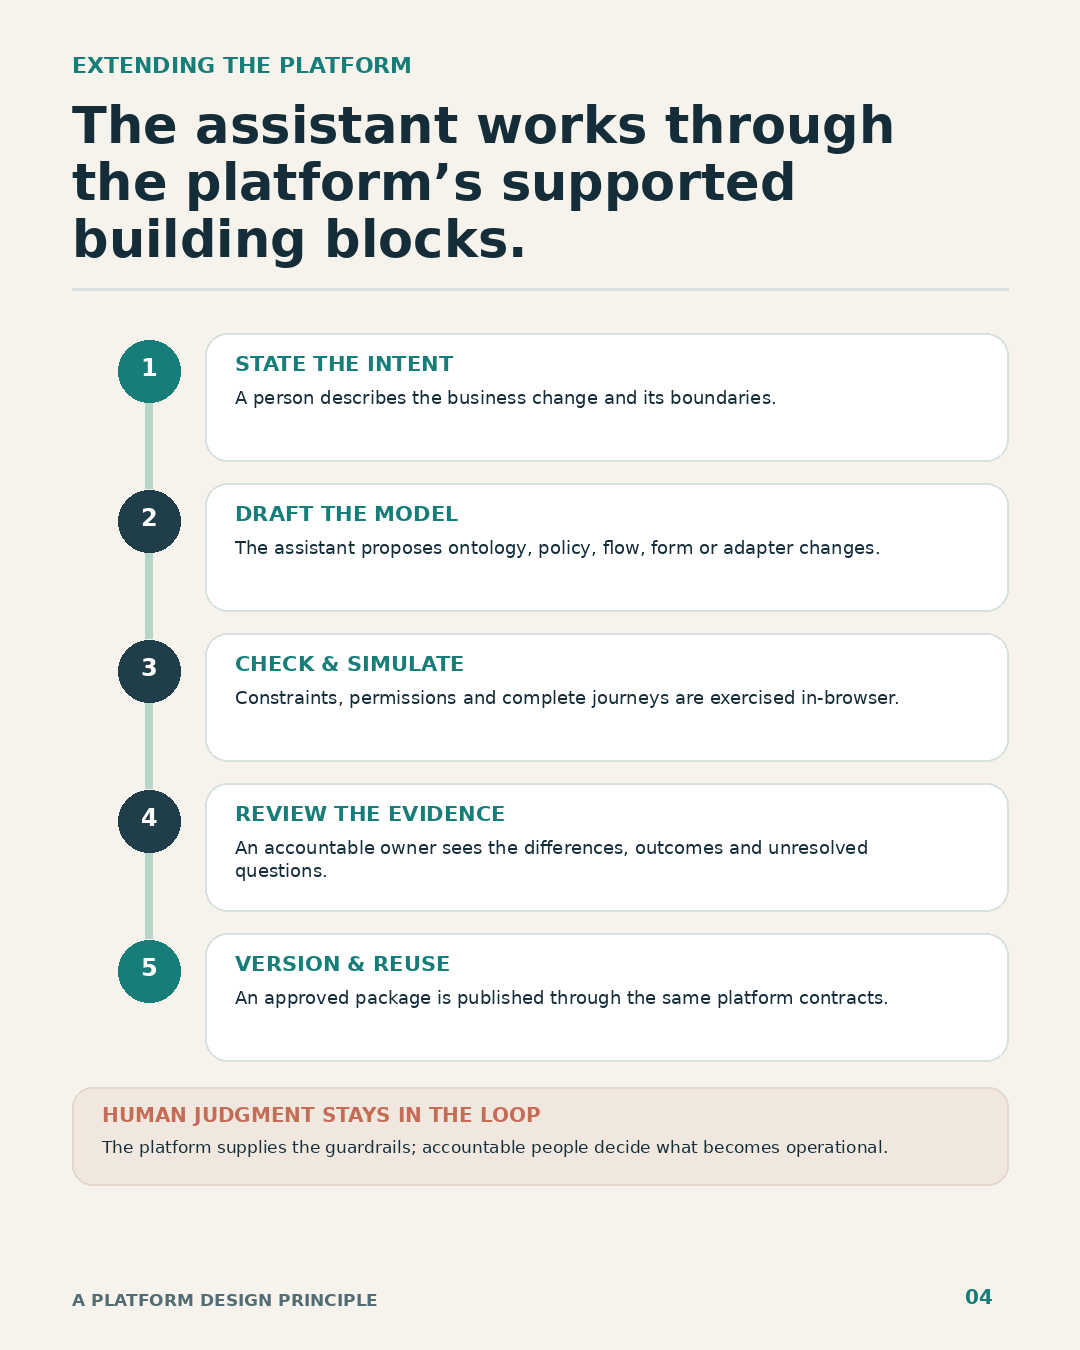
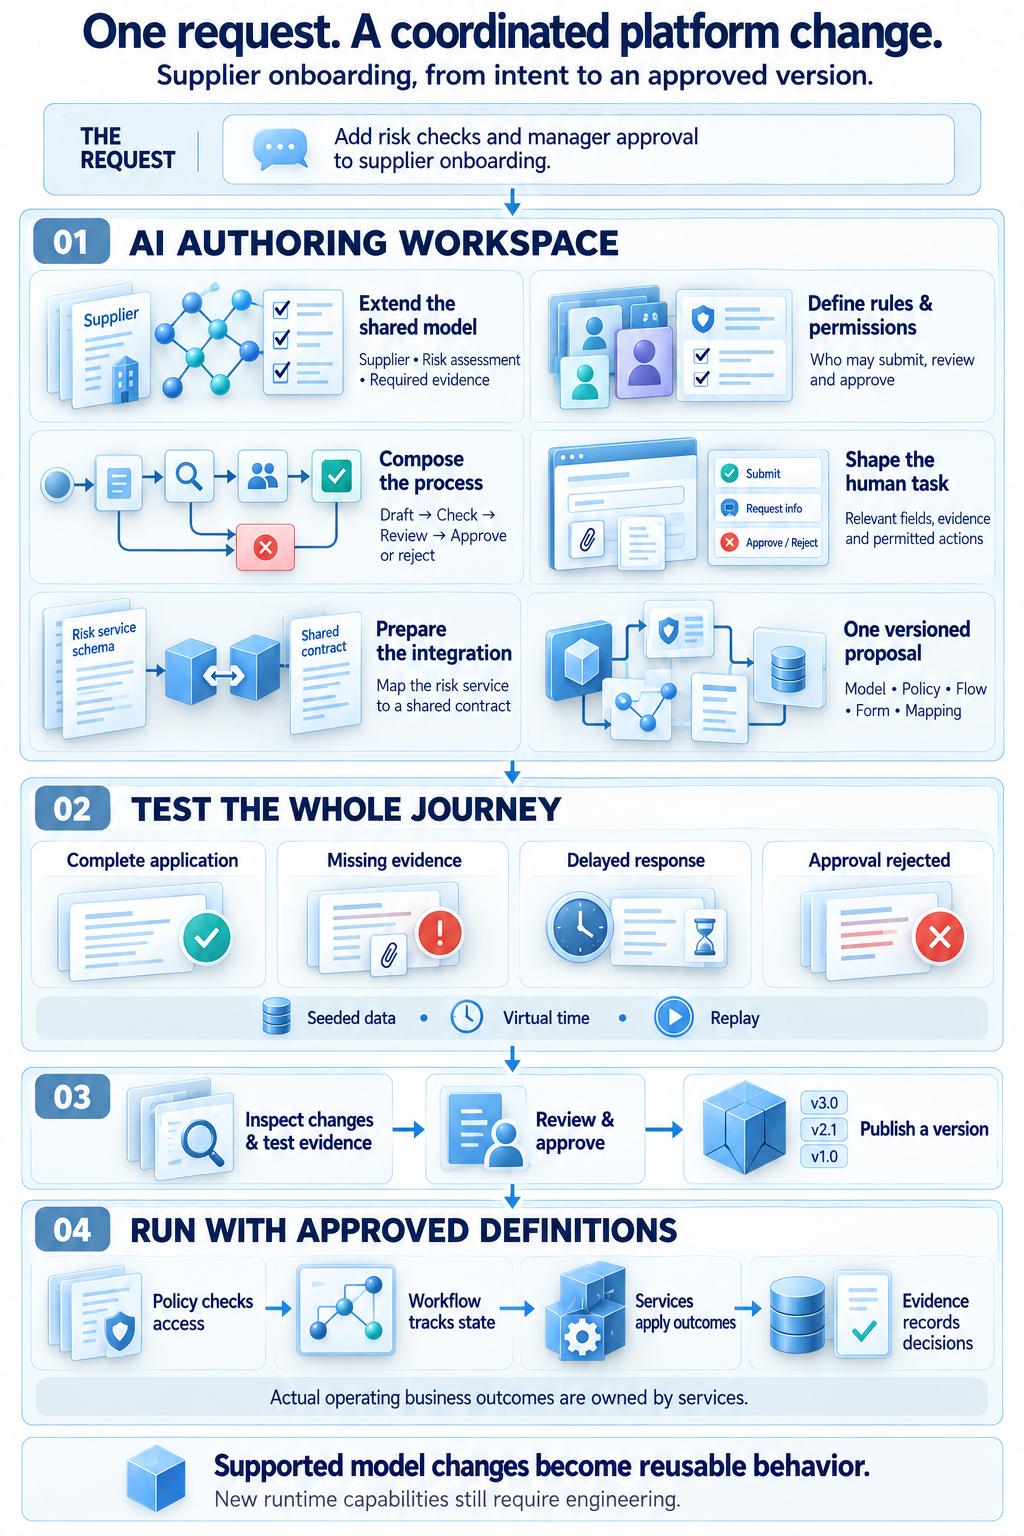
Refresh platform insight with light business infographics (#20)
Refresh platform vision article with light business infographics

Replace all four article illustrations with the approved white, muted-blue visual style. Make the AI authoring workspace explicit above the runtime, contrast fragmented changes with shared models, explain browser-first proving, and show one supplier onboarding change across the platform.

Clarify build versus extension modes, shared meaning across teams, independent adapter modes, and versioned publication. Preserve public image URLs and LinkedIn Markdown references. Document the artwork briefs and remove the obsolete Pillow renderer that would overwrite the approved assets.

Validation: published article metadata and image checks passed; website and console production builds passed; built article routes and assets verified; git diff --check passed. Changes remain under content/blog for the article-only GitHub Actions path. Illustrations are conceptual and AI-generated, not executable topology diagrams.

diff --git a/content/blog/articles/the-platform-as-a-harness.md b/content/blog/articles/the-platform-as-a-harness.md
@@ -10,13 +10,15 @@ When people discuss AI and software, the question is often how quickly an assist
 
 The answer depends on where the assistant works. If every agent creates its own schemas, rules, integrations and tests, local speed can become system-wide complexity. Inside a shared platform, AI works against common business meaning, policies, workflows, forms, adapters, simulation and evidence—the same contracts that govern the running system.
 
+This is a vision of an integrated platform: a place where people and AI can design, test and publish supported changes, as well as operate them. Its value comes from the foundation those activities share.
+
 ![Two approaches to AI-assisted software: isolated project outputs versus a shared platform harness with draft, validation, simulation, review and publication.](../assets/the-platform-as-a-harness/shared-harness.png)
 
 ## From generated code to a maintainable change
 
 Code generation can produce a useful first version. But a business capability also depends on the meaning of its information, the decisions it may make, ownership of each action, external dependencies and evidence that the result works.
 
-Outside a shared harness, assumptions are recreated project by project. Agents may use different representations, duplicate policies or tests that prove only one implementation. The work can look complete while connections between teams and systems remain unfinished.
+Without shared contracts, assumptions can be recreated project by project. Agents may use different representations, duplicate policies or produce tests that prove only one implementation. The work can look complete while connections between teams and systems remain unfinished. This is a coordination problem, not an inevitable property of coding agents: good engineering practices can address it, and agents remain useful for prototypes and new platform capabilities.
 
 Inside a platform, an assistant can draft a change against shared building blocks. Checks validate its relationships and constraints, a virtual runtime exercises it, and an accountable owner reviews the differences before publication. Generated code may still be part of the result, within a system with known responsibilities.
 
@@ -28,7 +30,17 @@ Human tasks fit here too. A task-specific form can use the workflow contract and
 
 Together, shared meaning helps workflows ask for the right information, policy limits who can submit it, domain services validate changes, and the runtime records outcomes. Sharing a model does not mean every layer owns every concern.
 
-![A portrait map of platform responsibilities from people and experience through workflow, policy, services, ontology, adapters, storage and evidence.](../assets/the-platform-as-a-harness/platform-layers.png)
+The benefit extends across teams. Product owners, engineers, operations and assurance can refer to the same concepts, responsibilities and evidence instead of rediscovering them in separate specifications. Application behavior and analytics can use that common meaning while keeping their own service and storage responsibilities. Versioned model packages, loaded through a replaceable provider, keep definitions consistent without mixing them with business records or workflow progress.
+
+![The AI authoring and reasoning layer reads shared context, plans and tests model changes, then publishes approved versions into a runtime of definitions, workflows, forms, services, adapters, data and browser simulation.](../assets/the-platform-as-a-harness/platform-layers.png)
+
+## Give AI an authoring workspace
+
+The AI needs somewhere to work out a change. That is the role of the authoring layer: it gathers relevant models, standards and documentation; maintains a proposed change; coordinates platform tools; and collects validation and simulation results. An AI model reached through an API helps interpret the request and prepare the proposal. The platform supplies the permitted tools, shared context and checks.
+
+This workspace keeps drafts separate from approved runtime definitions. It can propose an ontology extension, adjust constraints, assemble a workflow, design its task forms and prepare an integration mapping as one related change. People see the differences, affected processes and test evidence before publication. The runtime then loads the approved package; a conversation does not silently rewrite a running process.
+
+Versioning also matters after publication. Existing cases can remain on their original definitions until an explicit migration is approved. If a change must be withdrawn, reverting a model package does not automatically undo business actions that have already happened; those need their own recovery process.
 
 ## Prove the journey before the live connections
 
@@ -36,9 +48,11 @@ A particularly useful property is the ability to run a complete virtual environm
 
 A team can reproduce a late message, missing field, retry or approval delay, then replay the scenario after a change. Product, operations and engineering can inspect the same behavior together in the browser.
 
-Virtual testing does not replace real network, performance, security or endpoint checks. It gives them an already exercised journey and contract. Shared adapter boundaries let a connection move deliberately through virtual, observe, hybrid and live modes.
+That shortens the engineering feedback loop: change a definition, run the journey, inspect the evidence, correct it and replay. A fixed seed and virtual clock make the conditions repeatable. Problems can surface while a process is still easy to reshape, before infrastructure provisioning or a partner integration becomes a prerequisite for meaningful testing.
 
-![A complete virtual browser environment exercises the journey before moving through virtual, observe and hybrid operation toward live services.](../assets/the-platform-as-a-harness/browser-proving-ground.png)
+Virtual testing does not replace real network, performance, security or endpoint checks. It gives them an already exercised journey and contract. Virtual, observe, hybrid and live are selectable modes at individual boundaries, not a mandatory rollout sequence. A real input can feed simulated downstream services and stores; another integration can remain entirely virtual. Observe mode compares live input without authorizing operational writes.
+
+![A complete virtual browser environment supports rapid change, run, inspect and replay cycles; AI helps map endpoint documentation to shared contracts, with virtual, observe, hybrid and live modes selected independently per boundary.](../assets/the-platform-as-a-harness/browser-proving-ground.png)
 
 ## Let AI help bridge standards to real endpoints
 
@@ -48,15 +62,21 @@ The mapping remains a candidate: real endpoints can differ in fields, timing, in
 
 ## Extend the platform through its supported building blocks
 
-The same principle applies when the platform itself needs a new capability. A person describes intent; the assistant proposes changes to ontology, policies, workflows, forms or adapters that the platform supports. Validation catches structural or permission problems, and browser simulation tests repeatable journeys. Review shows the differences and unresolved questions before an approved, versioned package is published.
+There are two complementary modes of change. In build mode, engineers use code, repository review and tests to create reusable platform capabilities. In extension mode, people and AI use the platform's authoring tools to adapt whatever its runtime can represent, validate, publish and execute as a supported model.
 
-![A human-led AI extension cycle: state intent, draft models, check and simulate, review evidence, then version and reuse.](../assets/the-platform-as-a-harness/ai-extension-loop.png)
+That includes the ontology itself: new concepts, fields and relationships can be proposed alongside constraints, policies, workflow definitions, forms and integration mappings. The boundary is runtime support, not a blanket rule that ontology changes require code. A new protocol implementation or execution mechanism that the platform cannot yet express still belongs in build mode.
+
+A person describes intent; the assistant proposes the related model changes. Validation catches structural or permission problems, and browser simulation tests repeatable journeys. Review shows the differences and unresolved questions before an approved, versioned package is published.
+
+![One supplier onboarding request becomes a coordinated model, policy, workflow, form and integration proposal, tested in the browser and published as an approved runtime version.](../assets/the-platform-as-a-harness/ai-extension-loop.png)
 
 This is how a platform can become adaptable from within its own operating environment. AI assistance is useful not only for the initial build, but also for adding or changing the model-driven artifacts that the runtime explicitly supports. The platform still needs sound extension points, versioning, permissions and validation; a prompt cannot supply those foundations by itself.
 
 ## Keep human judgment where the consequences are real
 
-Consider an exception that needs a person to correct a record. The application presents the task, its evidence and only the relevant fields, with suitable controls and validation—not the technical flow diagram. The workflow assigns work and records progress. Policy determines who can act, the owning service validates the correction, and the platform preserves the trace.
+Consider the request shown in the illustrations: add a supplier onboarding process with risk checks and manager approval. AI identifies the existing supplier concept, proposes any missing information and constraints, and assembles the workflow and task form. It also prepares a mapping to an external risk service through the supported adapter contract.
+
+In the browser, the team tests a complete application, missing evidence, a delayed response and a rejected approval. The manager's form presents the relevant information and permitted actions. Policy determines who can approve; the owning business service applies the outcome; the workflow tracks progress; and evidence records the versions and decisions involved. A review can therefore examine a coherent business journey, rather than a disconnected screen.
 
 An assistant can help shape that experience, suggest missing rules and generate repeatable test cases. It should not silently turn its own interpretation into an operational decision. People remain accountable for approval and for the outcomes their organizations choose to publish.
 

diff --git a/content/blog/assets/the-platform-as-a-harness/README.md b/content/blog/assets/the-platform-as-a-harness/README.md
@@ -1,0 +1,26 @@
+# Platform harness article — light business infographics
+
+The four PNGs in this folder are the published artwork for `the-platform-as-a-harness.md`. Each is a separate 1024 × 1536 portrait image suitable for the article and manual upload to a LinkedIn article. Keep the public filenames stable.
+
+## Approved art direction
+
+White background; navy typography; pale steel-blue panels; restrained blue and teal accents. Meaningful software illustrations have shallow matte depth and soft shading. Keep labels large and horizontal, use vertical space, and avoid neon, luminous edges, dark backgrounds, cartoon robots and photographic dioramas.
+
+The AI authoring and reasoning layer must be visible as a workspace above the model-driven runtime. It reads shared context, plans and composes supported changes, and uses scoped tools to validate and simulate drafts. Review and publication produce an approved version for the runtime. Business services continue to own operational writes.
+
+## Artwork and generation briefs
+
+- `platform-layers.png` — “Where AI shapes the platform.” The approved style reference. Human request; AI authoring and reasoning; review and version publication; shared definitions, executable work, connections and records, browser proving ground; independent adapter modes. Preserve ontology, constraints, policies, model packages, workflows/state, forms/tasks, services, adapters, data/history and evidence.
+- `shared-harness.png` — “The same request. Two ways to build.” Vertically compare separate agent-assisted project outputs with one shared authoring workspace and reusable model, policy and capability contracts. Show duplicated assumptions and project-specific checks as risks of fragmentation, not inevitable properties of coding agents. Keep the explicit role for prototypes and new platform capabilities.
+- `browser-proving-ground.png` — “Prove the software in the browser.” Illustrate a whole virtual journey, seeded data, virtual time, fault injection and replay. Show the short change/run/inspect/replay loop, AI-assisted endpoint mapping, and mode selection per boundary. Virtual, observe, hybrid and live are alternatives, not mandatory rollout stages. Retain the operational-testing qualification.
+- `ai-extension-loop.png` — “One request. A coordinated platform change.” Follow supplier onboarding through model and policy changes, process composition, human task forms and risk-service mapping. Test complete, missing-evidence, delayed-response and rejected-approval scenarios. Inspect, approve and publish the proposal, then show policy, workflow, services and evidence operating with approved definitions.
+
+These are AI-generated editorial illustrations produced with the built-in image-generation tool and reviewed visually. They explain concepts, not exact executable topology. The PNGs are the maintained assets; image generation is not pixel-deterministic. Git history retains earlier revisions. The previous Pillow renderer was removed because it generated an obsolete visual style and would overwrite this approved artwork.
+
+For future edits, use the current PNG as the edit source, preserve the approved palette and typography, and inspect every label and relationship before replacing the file. A new companion should use `platform-layers.png` as its style reference. No generation step, credentials or image API call belongs in CI.
+
+## Validation
+
+Run `npm run check:blog --prefix website` and the normal website/console builds from the repository root. Then run `node scripts/check-blog-content.mjs --built` with `website/` as the working directory. GitHub Actions selects its article-only publishing path when all changes remain under `content/blog/`.
+
+The article's Copy Markdown action supplies the public image links; upload the four PNGs individually when publishing on LinkedIn. There are no Markdown tables in this article.
